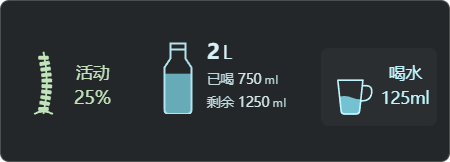
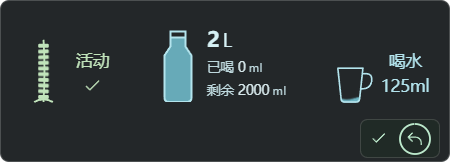
Publish 桌面搭子 v2.6.14

diff --git a/src/renderer/components/WellnessControls.vue b/src/renderer/components/WellnessControls.vue
@@ -27,6 +27,8 @@ const error = ref('')
 const feedback = ref('')
 const menuFeedback=ref(''),menuFailed=ref(false),menuFeedbackUntil=ref(0)
 const pending = ref(false)
+const undoFailed = ref(false)
+const undoNoticeUntil = ref(0)
 const lastDone = ref<ReminderKind | null>(null)
 const feedbackUntil = ref(0)
 const recentlyDone = (kind: ReminderKind) => lastDone.value === kind && now.value < feedbackUntil.value
@@ -43,12 +45,20 @@ const waterEffects = computed(() => waterOverflowEffects(water.value.percent, wa
 const spineEffects = computed(() => healthEffects(spine.value.percent, spine.value.overdue))
 const vertebrae = computed(() => spineSegments(spine.value.progress, spineEffects.value.separation, spineEffects.value.looseness))
 const undo = computed(() => snapshot.value.undo && snapshot.value.undo.expiresAt > now.value ? snapshot.value.undo : undefined)
+const undoProgress = computed(() => undo.value ? Math.max(0, Math.min(1, (undo.value.expiresAt - now.value) / 15000)) : 0)
+const receiptLabel = computed(() => {
+  if (undoFailed.value) return undo.value ? '撤销未完成，可重试' : '此操作已无法撤销'
+  if (undo.value) return undo.value.kind === 'hydration' ? '已记录喝水' : '已完成活动'
+  return '已撤销'
+})
 async function undoCompletion() {
   if (!undo.value || pending.value) return
   pending.value = true
-  try { snapshot.value = await api.wellness.undo(undo.value.id); lastDone.value = null; feedback.value = '已撤销，恢复原来的记录与计时'; error.value = '' }
-  catch (failure) { error.value = failure instanceof Error ? failure.message : '撤销失败' }
-  finally { pending.value = false }
+  undoFailed.value = false
+  error.value = ''; feedback.value = ''
+  try { snapshot.value = await api.wellness.undo(undo.value.id); lastDone.value = null; feedback.value = '已撤销，恢复原来的记录与计时' }
+  catch { undoFailed.value = true }
+  finally { pending.value = false; now.value = Date.now(); undoNoticeUntil.value = now.value + 2500 }
 }
 const label = (kind: ReminderKind): string => {
   if (kind === 'hydration' && plan.value?.status === 'complete') return '今日目标已完成，仍可记录实际喝水量'
@@ -70,6 +80,7 @@ async function context(kind: ReminderKind) {
 async function action(kind: ReminderKind, mode: 'done' | 'snooze' | 'enable', recording?: HydrationRecording) {
   if (pending.value) return false
   pending.value = true
+  undoFailed.value = false; undoNoticeUntil.value = 0
   error.value = ''
   feedback.value = '';menuFeedback.value=''
   try {
@@ -135,11 +146,10 @@ onBeforeUnmount(() => { disposeFeedback?.();disposeState?.(); if (timer) window.
 <template>
   <section class="wellness-controls" :class="{'physics-active':physicsActive}" aria-label="健康互动">
     <HealthPhysics :cup="cupSvg" :spine="spineSvg" :wet="water.overdue" :spill="waterEffects.spill" :flooding="waterEffects.flood" :separation="spineEffects.separation" :paused="snapshot.paused" :bone-color="spineEffects.color || '#c1e4bb'" @enabled="physicsActive=$event" @pieces="fallingBones=$event"/>
-    <div v-if="undo" class="health-receipt" role="status"><span>{{ undo.kind === 'hydration' ? '已记录喝水' : '已完成活动' }}</span><button :disabled="pending" aria-label="撤销最近的健康操作" @click="undoCompletion">撤销 · {{ Math.max(1,Math.ceil((undo.expiresAt-now)/1000)) }}秒</button></div>
     <div class="health-control activity-control">
     <button class="health-icon spine-icon" :style="{'--overdue-color':spineEffects.color}" :class="{ disabled: !enabled('sedentary'), overdue: spine.overdue }" :disabled="pending" :title="`点击完成活动；${label('sedentary')}。右键设置`" aria-label="完成活动" aria-haspopup="menu" @click="complete('sedentary')" @keydown.shift.f10.prevent="context('sedentary')" @contextmenu.prevent="context('sedentary')">
       <svg ref="spineSvg" class="spine-visual" viewBox="4 0 34 51" preserveAspectRatio="xMidYMax meet" aria-hidden="true"><path class="spine-outline" :opacity="1-spineEffects.separation" :d="`M21 4 Q${21 + spine.progress * 20} 27 21 51`" fill="none" stroke="currentColor" stroke-width="1.4"/><g v-for="(bone,i) in vertebrae" :key="i" class="vertebra" :class="{loose:bone.looseness>0 && !fallingBones.includes(i)}" :style="{'--shake-distance':`${.15+bone.looseness*.7}px`,'--shake-angle':`${1+bone.looseness*7}deg`,'--shake-duration':`${1.2-bone.looseness*.7}s`}"><rect :x="bone.x" :y="bone.y" width="8" :height="bone.height" rx="1" :class="{separated:bone.separated,falling:fallingBones.includes(i)}" :transform="`rotate(${bone.angle} ${bone.x+4} ${bone.y+bone.height/2})`" fill="currentColor"/></g><path :opacity="1-spineEffects.separation" d="M14 51q7-4 14 0" fill="none" stroke="currentColor" stroke-width="1.5"/></svg>
-      <span>活动<small>{{ recentlyDone('sedentary') ? '已活动' : enabled('sedentary') ? `${spine.percent}%` : '—' }}</small></span><i v-if="spine.overdue" aria-hidden="true"/>
+      <span>活动<small><AssistantIcon v-if="recentlyDone('sedentary')" name="check" class="activity-done"/><template v-else>{{ enabled('sedentary') ? `${spine.percent}%` : '—' }}</template></small></span><i v-if="spine.overdue" aria-hidden="true"/>
     </button>
     </div>
     <div class="health-control hydration-control">
@@ -159,6 +169,13 @@ onBeforeUnmount(() => { disposeFeedback?.();disposeState?.(); if (timer) window.
       <span>喝水<small>{{ currentCupMl }}ml</small></span><i v-if="water.overdue" aria-hidden="true"/>
     </button>
     </div>
+    <div v-if="undo || now < undoNoticeUntil" class="health-receipt" :class="{'receipt-failed':undoFailed}" role="group" aria-label="最近一次健康操作">
+      <span class="receipt-caption" role="img" :aria-label="receiptLabel" :title="receiptLabel"><AssistantIcon :name="undoFailed ? 'close' : 'check'"/></span>
+      <button v-if="undo" type="button" :disabled="pending" aria-label="撤销最近的健康操作" :title="undoFailed ? '撤销未完成，点击重试' : '撤销最近一次操作（15 秒内）'" @click="undoCompletion">
+        <svg class="receipt-timer" viewBox="0 0 24 24" aria-hidden="true"><circle class="timer-track" cx="12" cy="12" r="10"/><circle class="timer-left" cx="12" cy="12" r="10" pathLength="1" stroke-dasharray="1" :stroke-dashoffset="1-undoProgress" transform="rotate(-90 12 12)"/></svg>
+        <AssistantIcon :name="undoFailed ? 'refresh' : 'undo'"/>
+      </button>
+    </div>
     <dialog ref="goalEditor" class="health-popover goal-editor" aria-labelledby="bottle-goal-heading" :aria-busy="pending" @cancel.prevent="closeGoalEditor" @close="goalTrigger?.focus({preventScroll:true})">
     <form @submit.prevent="saveGoal">
       <div class="goal-editor-heading"><label id="bottle-goal-heading" for="bottle-hydration-goal">每日饮水目标</label><button type="button" class="goal-editor-close" aria-label="取消设置" title="取消设置（Esc）" :disabled="pending" @click="closeGoalEditor"><AssistantIcon name="close"/></button></div>
@@ -166,7 +183,7 @@ onBeforeUnmount(() => { disposeFeedback?.();disposeState?.(); if (timer) window.
       <p id="bottle-goal-message" class="goal-editor-message" :class="{'goal-editor-error':goalError}" :role="goalError ? 'alert' : undefined">{{ goalError || '500–5000 ml · 保留已喝水量' }}</p>
     </form>
     </dialog>
-    <span class="health-feedback" role="status">{{ feedback }}</span><span v-if="error" class="health-error" role="alert">{{ error }}</span><span v-else-if="menuFeedback && (menuFailed || now<menuFeedbackUntil)" class="health-error" :class="{'health-success':!menuFailed}" :role="menuFailed?'alert':'status'">{{menuFeedback}}</span>
+    <span class="health-feedback" :role="undoFailed ? 'alert' : 'status'">{{ undoFailed ? receiptLabel : feedback }}</span><span v-if="error" class="health-error" role="alert">{{ error }}</span><span v-else-if="menuFeedback && (menuFailed || now<menuFeedbackUntil)" class="health-error" :class="{'health-success':!menuFailed}" :role="menuFailed?'alert':'status'">{{menuFeedback}}</span>
   </section>
 </template>
 
@@ -200,7 +217,16 @@ onBeforeUnmount(() => { disposeFeedback?.();disposeState?.(); if (timer) window.
 
 .physics-active .spine-visual rect.falling{visibility:hidden}
 
-.health-receipt{position:absolute;left:8px;right:8px;bottom:calc(100% + 6px);z-index:9;display:flex;align-items:center;justify-content:space-between;min-height:22px;gap:8px;padding:5px 8px;border:1px solid #ffffff30;border-radius:4px;background:#25342cf2;color:#d4eadc;font-size:11px}.health-receipt button{padding:3px 0;border:0;background:transparent;color:#bce9cc;font:inherit;text-decoration:underline;text-underline-offset:3px;cursor:pointer}.health-receipt button:disabled{opacity:.5}
+.health-receipt{position:absolute;right:6px;bottom:2px;z-index:40;display:flex;align-items:center;height:26px;gap:4px;padding:0 4px;border:1px solid #ffffff24;border-radius:5px;background:#202a25f5;color:#bce9cc;cursor:default}
+.wellness-controls:has(.goal-editor[open]) .health-receipt{visibility:hidden}
+.receipt-caption{display:grid;place-items:center;width:16px;height:22px}
+.health-receipt svg{width:13px;height:13px;flex:none}
+.receipt-failed .receipt-caption,.receipt-failed .receipt-caption>svg{color:#ffd0c7}
+.health-receipt button{position:relative;display:grid;place-items:center;width:24px;height:24px;padding:0;border:0;border-radius:4px;background:transparent;color:#bce9cc;cursor:pointer}
+.health-receipt button:hover:not(:disabled){background:#ffffff12}.health-receipt button:active:not(:disabled){background:#ffffff20}.health-receipt button:disabled{opacity:.5;cursor:wait}
+.wellness-controls .health-receipt button:focus-visible{outline:2px solid #c5e6ce;outline-offset:-2px}
+.health-receipt .receipt-timer{position:absolute;inset:0;width:24px;height:24px;fill:none;stroke:currentColor;stroke-width:1.2;pointer-events:none}
+.timer-track{opacity:.18}.timer-left{transition:stroke-dashoffset .2s linear}
 
 
 .health-error{position:absolute;bottom:100%;left:8px;right:8px;padding:7px;background:#25342c;color:#ffd0c7;font-size:11px}.health-icon>span{min-width:32px}
@@ -221,12 +247,13 @@ onBeforeUnmount(() => { disposeFeedback?.();disposeState?.(); if (timer) window.
 @keyframes wave { from { transform:translateX(0); } to { transform:translateX(-28px); } }
 
 .water-fill{transition:transform 1s linear}
-.wellness-controls{user-select:none;position:relative;display:grid;grid-template-columns:1fr 1fr;align-items:end;align-content:center;gap:8px;flex:0 0 auto;padding:10px 10px 16px;border-top:1px solid #ffffff14;color:#c2d8ca}
+.wellness-controls{user-select:none;position:relative;display:grid;grid-template-columns:1fr 1fr;align-items:end;align-content:center;gap:8px;flex:0 0 auto;padding:6px 10px 28px;border-top:1px solid #ffffff14;color:#c2d8ca}
 .wellness-controls:has(.daily-reservoir){grid-template-columns:minmax(68px,.85fr) minmax(108px,1.4fr) minmax(70px,.9fr)}
 .health-icon{min-width:0;position:relative;display:flex;align-items:flex-end;justify-content:center;gap:5px;padding:4px 0 8px;border:0;border-radius:5px;background:transparent;color:inherit;cursor:pointer;font:inherit;font-size:11px}
 .health-icon svg{width:34px;height:40px;flex:none;overflow:visible}
 .health-icon .spine-visual{width:30px;height:54px}
 .health-icon .water-cup{width:32px}
+.health-icon .activity-done{display:block;width:14px;height:15px;margin:auto}
 .health-icon>span{display:flex;flex-direction:column;align-items:center;justify-content:flex-end;gap:3px;min-width:30px;padding-bottom:3px;line-height:14px;text-align:center;white-space:nowrap}
 .health-icon small{display:block;margin:0;color:currentColor;font-size:12px;font-weight:500;line-height:15px;font-variant-numeric:tabular-nums}
 .daily-reservoir:hover:not(:disabled),.health-icon:hover:not(:disabled){background:#ffffff08;filter:brightness(1.08)}

diff --git a/src/renderer/components/HealthPanel.vue b/src/renderer/components/HealthPanel.vue
@@ -20,5 +20,5 @@ onBeforeUnmount(()=>dispose?.())
 </main>
 </template>
 <style scoped>
-.health-panel{height:100vh;box-sizing:border-box;display:flex;flex-direction:column;justify-content:space-between;border:1px solid #ffffff30;border-radius:6px;overflow:hidden;background:color-mix(in srgb,var(--widget-background,#232729) calc(var(--health-alpha,.7)*100%),transparent);color:var(--widget-text,#f4f7f6);font:11px 'Microsoft YaHei UI',sans-serif;cursor:grab;touch-action:none}.health-panel :deep(.wellness-controls){border-top:0;flex:1;min-height:0}.health-panel :deep(.health-control),.health-panel :deep([role=status]),.health-panel :deep([role=alert]){cursor:default}.health-panel :deep(.health-error){top:4px;bottom:auto;max-height:54px;overflow:auto;font-size:10px;padding:4px 6px;z-index:12}.health-panel :deep(.health-receipt){top:2px;bottom:auto;font-size:10px;min-height:18px;padding:3px 6px}p{font-size:10px;margin:0 8px;color:#ffb0a5}
+.health-panel{height:100vh;box-sizing:border-box;display:flex;flex-direction:column;justify-content:space-between;border:1px solid #ffffff30;border-radius:6px;overflow:hidden;background:color-mix(in srgb,var(--widget-background,#232729) calc(var(--health-alpha,.7)*100%),transparent);color:var(--widget-text,#f4f7f6);font:11px 'Microsoft YaHei UI',sans-serif;cursor:grab;touch-action:none}.health-panel :deep(.wellness-controls){border-top:0;flex:1;min-height:0}.health-panel :deep(.health-control),.health-panel :deep([role=status]),.health-panel :deep([role=alert]){cursor:default}.health-panel :deep(.health-error){top:4px;bottom:auto;max-height:54px;overflow:auto;font-size:10px;padding:4px 6px;z-index:12}p{font-size:10px;margin:0 8px;color:#ffb0a5}
 </style>

diff --git a/src/renderer/components/AssistantIcon.vue b/src/renderer/components/AssistantIcon.vue
@@ -26,6 +26,7 @@ const paths: Record<string, string> = {
   file: 'M5 3h9l5 5v13H5z M14 3v6h5 M8 13h8 M8 17h6',
   plus: 'M12 5v14 M5 12h14',
   close: 'M6 6l12 12 M18 6 6 18',
+  undo: 'M9 5 4 10l5 5 M4 10h9a7 7 0 0 1 7 7v2',
   check: 'M5 12l4 4L19 6'
 }
 </script>

diff --git a/README.md b/README.md
@@ -4,7 +4,7 @@
 
 桌面文件越堆越多，想到的事转头就忘，工作一忙又忘了喝水和起身。桌面搭子把文件收纳、待办和日常提醒放在 Windows 桌面上，让常用资料更好找，要做的事随手记。
 
-适用于 **Windows 10 / 11 x64**，当前版本 **v2.6.13**，提供安装版与免安装版。
+适用于 **Windows 10 / 11 x64**，当前版本 **v2.6.14**，提供安装版与免安装版。
 
 [下载最新版](https://github.com/Gerson369/windows-desktop-widgets/releases/latest) · [反馈问题](https://github.com/Gerson369/windows-desktop-widgets/issues)
 
@@ -17,15 +17,15 @@
 - **日常要看的信息，就放在桌面**：查看时钟、多城市天气和设备读数；日历、便签、倒数日和专注计时可在桌面搭子里切换。
 - **按自己的习惯摆放和保存**：拖动吸附、主题颜色、背景透明度和布局可调整。待办、便签、计划与布局保存在本机，也能导出配置备份。
 
-## v2.6.13 更新
+## v2.6.14 更新
 
-- **目标设置更清楚**：右键水瓶打开紧凑的每日饮水目标弹层，数字与毫升单位放在一起；打开即选中当前目标，支持键盘操作、输入校验、保存反馈和失败重试，保留已喝水量。
-- **缩放也能自动吸附**：拖动可缩放组件的四边或四角，靠近其他可见桌面组件或屏幕边缘时自动对齐，拖远后继续自由调整。
-- **积水按面板逐个上涨**：持续不记录喝水时，按健康组件 → 收纳框 → 桌面搭子 → 其他独立面板的顺序逐个涨满，前一个满后下一个才开始；记录喝水后全部清空，积水时仍可操作面板。
+- **完成与撤销改用图标**：健康组件右下角用完成标记和撤销箭头提示最近一次操作，15 秒撤销时限通过进度环显示。
+- **操作状态更清楚**：撤销失败时显示失败与重试图标，撤销成功后短暂显示完成标记；活动完成也用勾选图标反馈。
+- **提示位置固定**：底部预留提示位置，主图标保持稳定；积水时仍可操作提示，打开目标设置时提示自动让位，关闭后沿用原来的撤销时限。
 
 ## 功能截图
 
-下方展示 26 张功能页面，每排两张，点击可查看原图。图库包含 v2.6.12 功能案例和本次更新的目标设置、健康积水图。
+下方展示 26 张功能页面，每排两张，点击可查看原图。图库包含 v2.6.12 功能案例，以及后续版本更新的目标设置和健康积水图。
 
 截图使用隔离演示数据，天气与设备读数为固定样本，并非实时数据。超时动画截图为加速演示；健康图示只基于计时，不检测真实坐姿或饮水。
 
@@ -166,7 +166,9 @@ tests/            单元测试、契约与数据保护测试
 
 导出的配置可能包含私人便签、文件路径和日历订阅地址，请勿提交到公共仓库。此仓库不包含个人配置、凭据、桌面文件清单、第三方桌面软件拆包或本机测试记录。
 
-当前版本：**2.6.13**。121 项单元及契约测试、类型检查和生产构建通过。隔离环境下完成目标弹层的 8 组真实输入检查；缩放吸附完成 11 组真实 Electron 窗口事件绑定检查，使用合成 `will-resize` 提案；逐个积水完成 11 组检查、1 组隐藏重排检查及大面板波浪定高验证。安装包的版本、构建文件及 SHA256 已校验；本轮未实测系统鼠标拖边、安装向导覆盖升级、真实多屏和长时间运行。
+当前版本：**2.6.14**。124 项单元及契约测试、类型检查和生产构建通过。本轮在隔离的真实应用中检查完成与撤销图标、时限进度、失败重试、固定位置及目标弹层隐藏恢复。
+
+前序版本已完成目标弹层的 8 组真实输入检查；缩放吸附完成 11 组真实 Electron 窗口事件绑定检查，使用合成 `will-resize` 提案；逐个积水完成 11 组检查、1 组隐藏重排检查及大面板波浪定高验证。安装包的版本、构建文件及 SHA256 已校验；本轮未实测系统鼠标拖边、安装向导覆盖升级、真实多屏和长时间运行。
 
 ## 许可证
 
